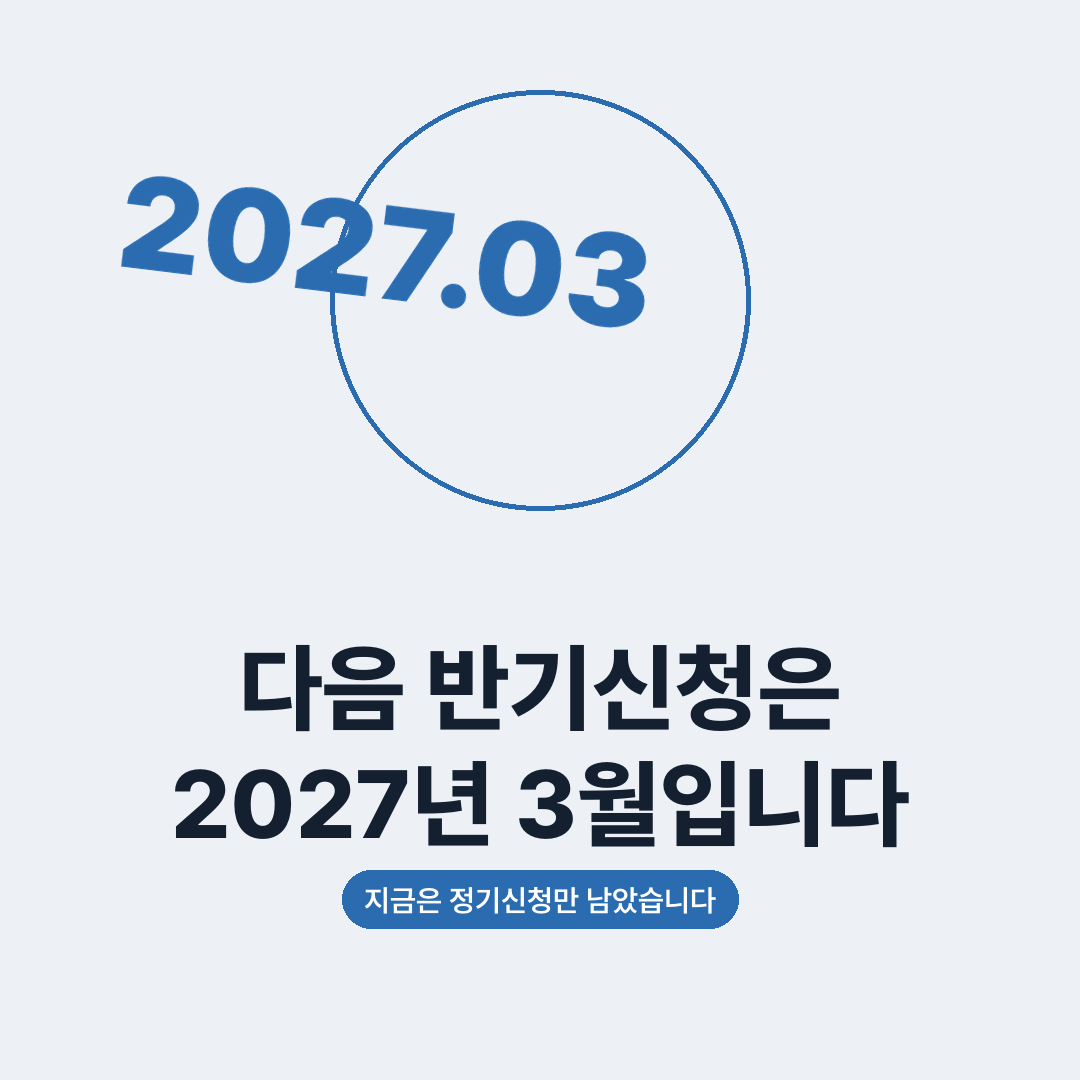
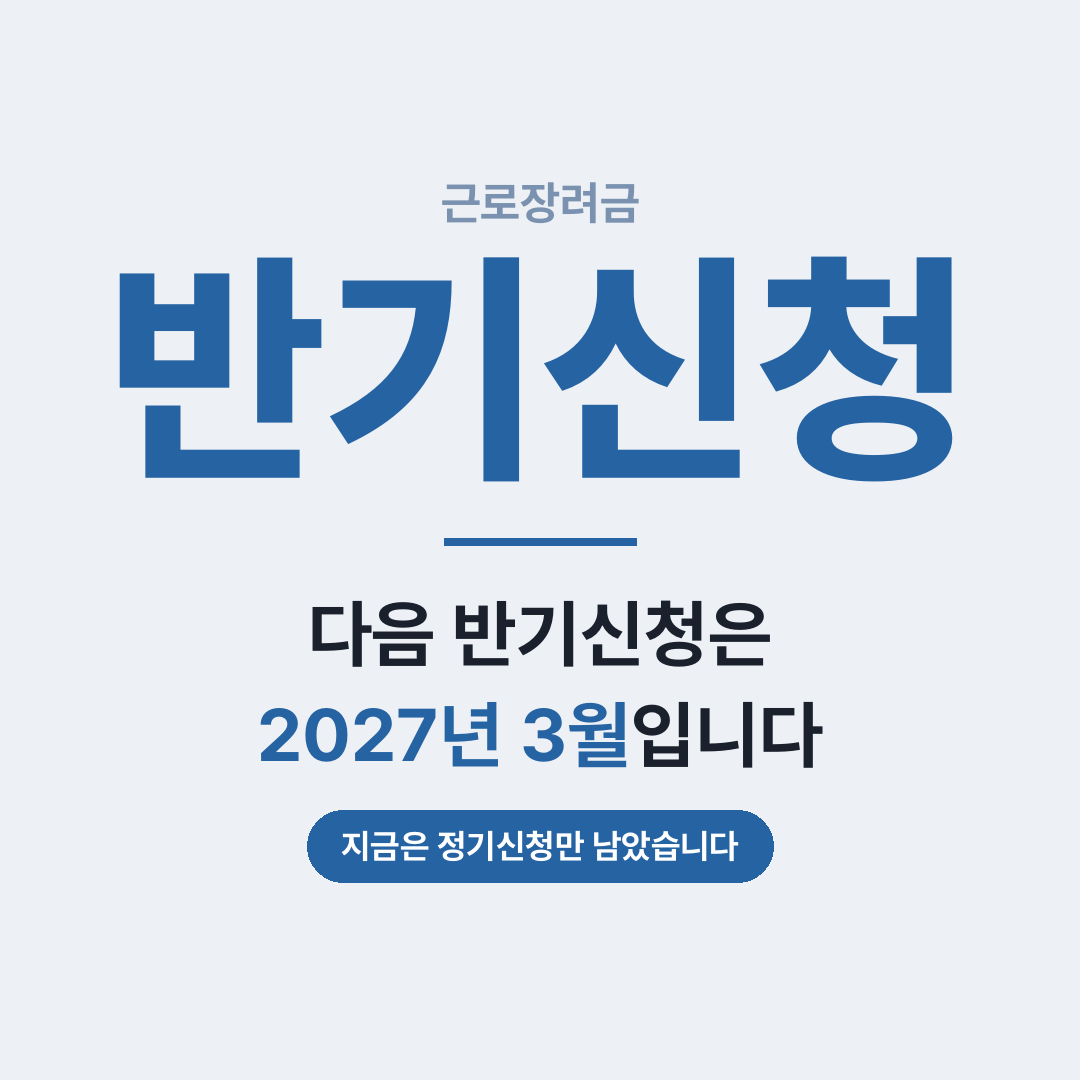
/2 /6 /8 재제작 완료 — 분자를 주제어로
진행 1차 인스턴스가 또 끊겼으나 00_진척.md 잠금이 작동해 2차가 그대로 이음.
/8은 직전 회차에 아예 재제작되지 않았음이 드러남(mtime 09-23 17:57 그대로,
소급 「재확인」으로만 처리돼 있었다).

Claude-Session: https://claude.ai/code/session_01Q2phF8jfFGCqbh6nMM2kyu

diff --git a/작업/20260922_21편보수/썸네일/make8.py b/작업/20260922_21편보수/썸네일/make8.py
@@ -1,0 +1,79 @@
+# -*- coding: utf-8 -*-
+"""/8 근로장려금 반기신청 — 2026-09-24 재제작.
+
+구판 문제(「지면」 진단): 이 장의 최대 글자가 날짜 스탬프 「2027.03」(h=97)이었고
+주제어 「반기신청」은 헤드라인 안 h=88에 머물렀다. 날짜는 주제어를 대신하지 못한다(사장 §2).
+게다가 스탬프가 원형 링과 어긋나게 겹쳐 있어 링이 숫자를 가로지르고,
+상단 절반이 장식 하나로 비어 있었다 — 딱 봤을 때 읽히지 않는 구성이다.
+
+이번 판이 바꾼 것 — 배치와 크기만. 문구는 한 글자도 건드리지 않았다(사장 §3).
+  · 주제어 「반기신청」을 250pt로 올려 이 장의 최대 글자로 만든다.
+    출처는 확정 제목 「근로장려금 반기신청 마감, 지금은 정기신청만 남았습니다」와
+    확정 썸네일 문구 「다음 반기신청은 2027년 3월입니다」에 이미 있는 말.
+  · 의미 없는 원형 링과 기울어진 스탬프를 버린다. 날짜는 헤드라인 안에서만 말한다.
+  · 중앙정렬축 — /2·/5(좌정렬)·/6(우정렬) 어느 것과도 정렬축이 다르다.
+
+무수정 유지: 킥커 「근로장려금」, 헤드라인 2줄, 캡슐 「지금은 정기신청만 남았습니다」,
+배경 쿨 그레이·딥 블루 계열.
+"""
+from PIL import Image, ImageDraw, ImageFont
+
+F = "/home/user/webtest/자산/폰트/Pretendard-%s.otf"
+def f(w, s): return ImageFont.truetype(F % w, s)
+
+S, M = 1080, 72
+BG    = (237, 240, 245)
+INK   = (26, 32, 44)
+BLUE  = (37, 99, 163)
+MUTED = (122, 146, 176)
+
+img = Image.new("RGB", (S, S), BG)
+d = ImageDraw.Draw(img)
+CX = S // 2
+
+def put_c(top, t, fo, col):
+    bb = fo.getbbox(t)
+    w = bb[2] - bb[0]
+    d.text((CX - w / 2 - bb[0], top - bb[1]), t, font=fo, fill=col)
+    return top + (bb[3] - bb[1])
+
+def put_c_segs(top, segs, fo):
+    """[(글자, 색)] 을 한 줄로 중앙정렬. 문구는 이어붙이기만 하고 바꾸지 않는다."""
+    total = sum(fo.getbbox(t)[2] - fo.getbbox(t)[0] for t, _ in segs)
+    x = CX - total / 2
+    bot = top
+    for t, col in segs:
+        bb = fo.getbbox(t)
+        d.text((x - bb[0], top - bb[1]), t, font=fo, fill=col)
+        x += bb[2] - bb[0]
+        bot = max(bot, top + (bb[3] - bb[1]))
+    return bot
+
+# ── 1. 킥커 (확정 제목 첫 단어, 무수정)
+kick_bot = put_c(182, "근로장려금", f("Bold", 46), MUTED)
+
+# ── 2. 주제어 — 이 장의 최대 글자
+key_bot = put_c(256, "반기신청", f("ExtraBold", 250), BLUE)
+
+# ── 3. 구분선
+div_y = key_bot + 56
+d.rectangle([CX - 96, div_y, CX + 96, div_y + 7], fill=BLUE)
+
+# ── 4. 헤드라인 (「포착」 확정 썸네일 문구, 무수정)
+hf = f("Bold", 74)
+h1_bot = put_c(div_y + 62, "다음 반기신청은", hf, INK)
+h2_bot = put_c_segs(h1_bot + 34, [("2027년 3월", BLUE), ("입니다", INK)], hf)
+
+# ── 5. 캡슐 (기존 승인 문구, 무수정)
+cf = f("Bold", 34)
+cap = "지금은 정기신청만 남았습니다"
+cb = cf.getbbox(cap)
+cw, ch = cb[2] - cb[0], cb[3] - cb[1]
+cap_top = h2_bot + 62
+d.rounded_rectangle([CX - cw / 2 - 34, cap_top - 20, CX + cw / 2 + 34, cap_top + ch + 20],
+                    (ch + 40) // 2, fill=BLUE)
+d.text((CX - cw / 2 - cb[0], cap_top - cb[1]), cap, font=cf, fill=(255, 255, 255))
+
+img.save("/home/user/webtest/작업/20260922_21편보수/썸네일/8.png")
+print("saved 8.png  kick_bot=%d key_bot=%d div=%d h2_bot=%d cap_bot=%d" %
+      (kick_bot, key_bot, div_y, h2_bot, cap_top + ch + 20))

diff --git a/작업/20260922_21편보수/썸네일/검사.py b/작업/20260922_21편보수/썸네일/검사.py
@@ -1,0 +1,13 @@
+# -*- coding: utf-8 -*-
+"""4장 자기검사 — 핵심어 비율 + C58 축소 판독본 생성.
+분모 정의(「지면」): 그 장에 그려진 **글자**의 잉크 행 높이 최댓값.
+도형(밑줄·구분선·패널·캡슐)은 글자가 아니므로 분모에서 제외한다.
+글자와 도형이 같은 행에 겹치는 경우(=/5 패널, /8 캡슐)는 글자색만 분리해 잰다."""
+from PIL import Image
+import os
+D = "/home/user/webtest/작업/20260922_21편보수/썸네일/"
+for n in ("2", "5", "6", "8"):
+    im = Image.open(D + n + ".png").convert("RGB")
+    for px in (58, 120):
+        im.resize((px, px), Image.LANCZOS).save(D + "검사_C%d_%s.png" % (px, n))
+    print(n, im.size)
